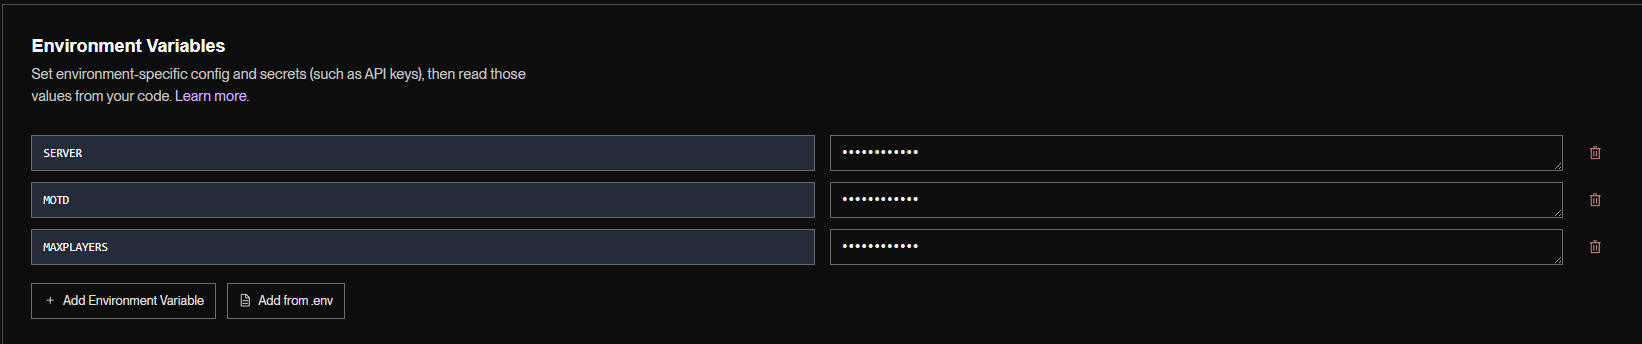
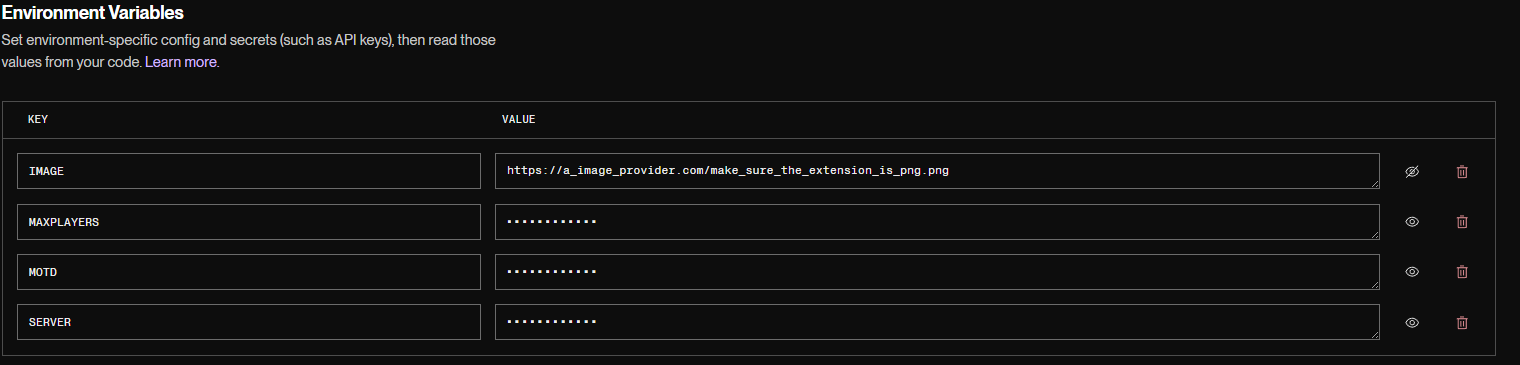
new step

diff --git a/README.md b/README.md
@@ -1,3 +1,7 @@
+<h1> Notes: </h1>
+
+<p> I will no longer be supporting/updating Koyeb due to render being a better option for a free plan.</p>
+
 <h1> For Render: </h1>
 
 <p> Step 1: Click Web Service.</p>
@@ -9,7 +13,8 @@
 <img src="./imgs/render/step3.png">
 <p> Step 4: Click for a free Instance Type.</p>
 <img src="./imgs/render/step4.png">
-<p> Step 5: Create 3 Environment Variables (check images for names).</p>
+<p> Step 5: Create 4 Environment Variables (check images for names).</p>
+<p> Step 5.5: For the image make sure the url ends with a .png (this will be your server icon; eg. https://example.com/image<b>.png</b>)</p>
 <img src="./imgs/render/step5.png">
 
 <h1> For Koyeb: </h1>
